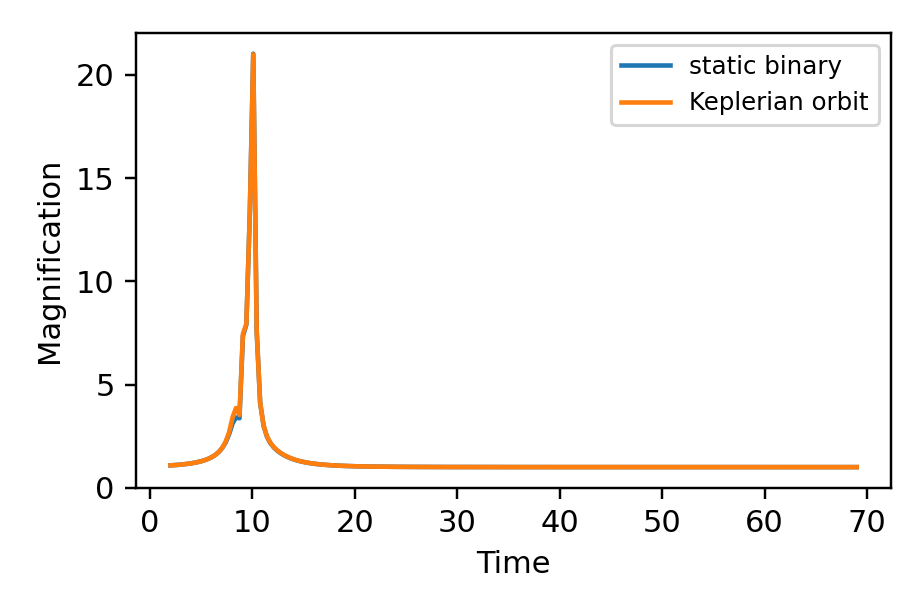
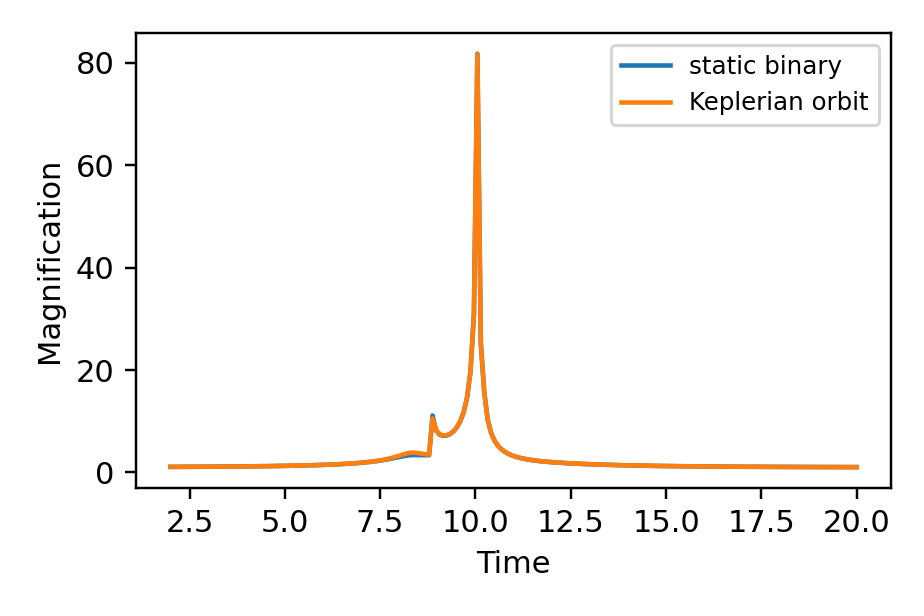
docs: focus Keplerian orbit and shrink caustic markers

diff --git a/example/docs-python/generate_figures.py b/example/docs-python/generate_figures.py
@@ -286,7 +286,10 @@ def orbital_motion():
     source_y = -np.asarray(trajectory.y)
     plt.plot(source_x, source_y, "y")
     for index, color in zip(indices, colors):
-        plt.plot([source_x[index]], [source_y[index]], color=color, marker="o")
+        plt.plot(
+            [source_x[index]], [source_y[index]], color=color,
+            marker="o", markersize=2.5,
+        )
     plt.axis("equal")
     save("BinaryLens_lightcurve_orbital_caustics.png")
 
@@ -297,7 +300,7 @@ def keplerian_orbital_motion():
         s=0.97, q=10.0 ** -1.5, rho=0.0,
         g1=0.004, g2=0.011, g3=0.006, lom_szs=0.2, lom_ar=1.4,
     )
-    times = np.linspace(2.0, 69.0, 200)
+    times = np.linspace(2.0, 20.0, 200)
     options = lcbinint.Options(coordinates="vbm", nbin="auto")
     static = lcbinint.LightCurve(options=options)
     kepler = lcbinint.LightCurve(

diff --git a/docs/python/OrbitalMotion.md b/docs/python/OrbitalMotion.md
@@ -85,7 +85,10 @@ source_x = -np.asarray(trajectory_orbital.x)
 source_y = -np.asarray(trajectory_orbital.y)
 plt.plot(source_x, source_y, "y")
 for index, color in zip(caustic_indices, colors):
-    plt.plot([source_x[index]], [source_y[index]], color=color, marker="o")
+    plt.plot(
+        [source_x[index]], [source_y[index]], color=color,
+        marker="o", markersize=2.5,
+    )
 plt.axis("equal")
 plt.show()
 ```
@@ -106,7 +109,7 @@ kepler_params = {
     "g1": 0.004, "g2": 0.011, "g3": 0.006,
     "lom_szs": 0.2, "lom_ar": 1.4,
 }
-kepler_t = np.linspace(2.0, 69.0, 200)
+kepler_t = np.linspace(2.0, 20.0, 200)
 kepler_options = lcbinint.Options(coordinates="vbm", nbin="auto")
 
 static_kepler = lcbinint.LightCurve(options=kepler_options)
